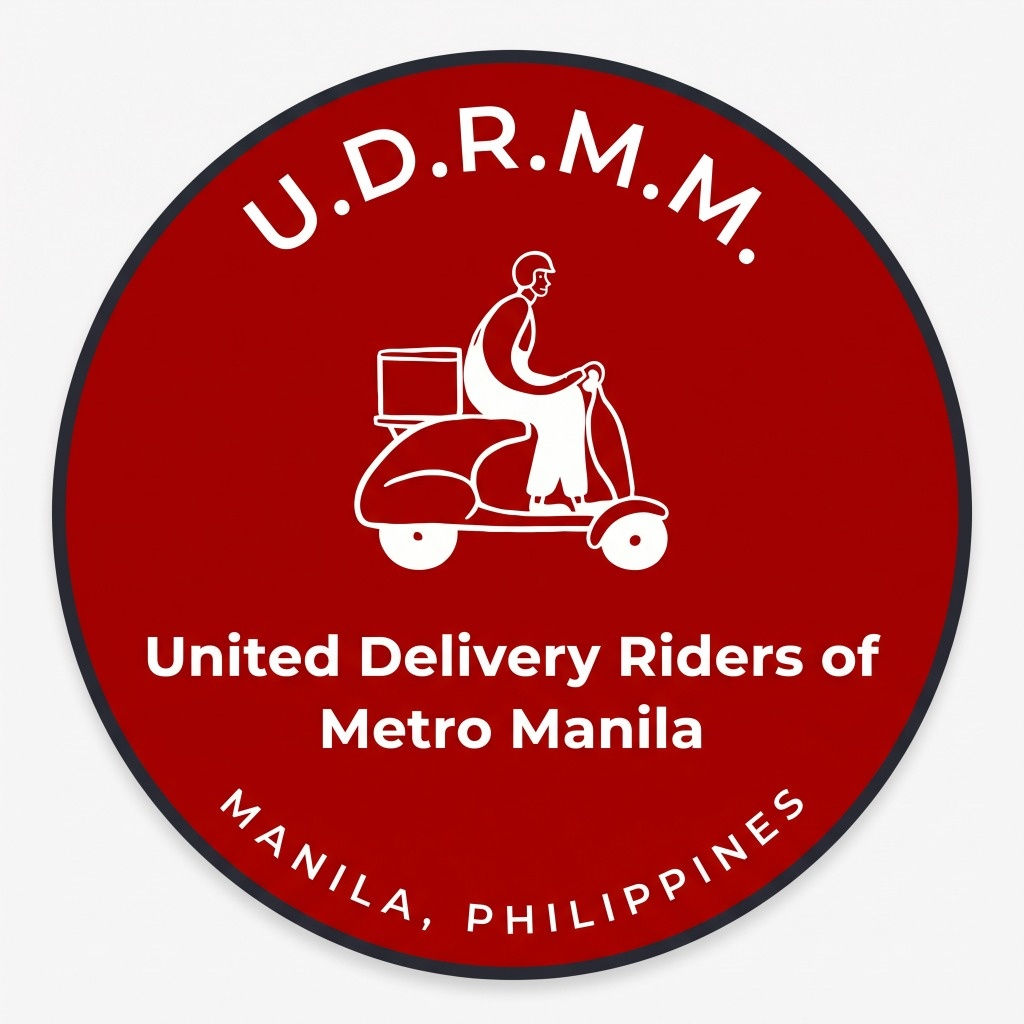
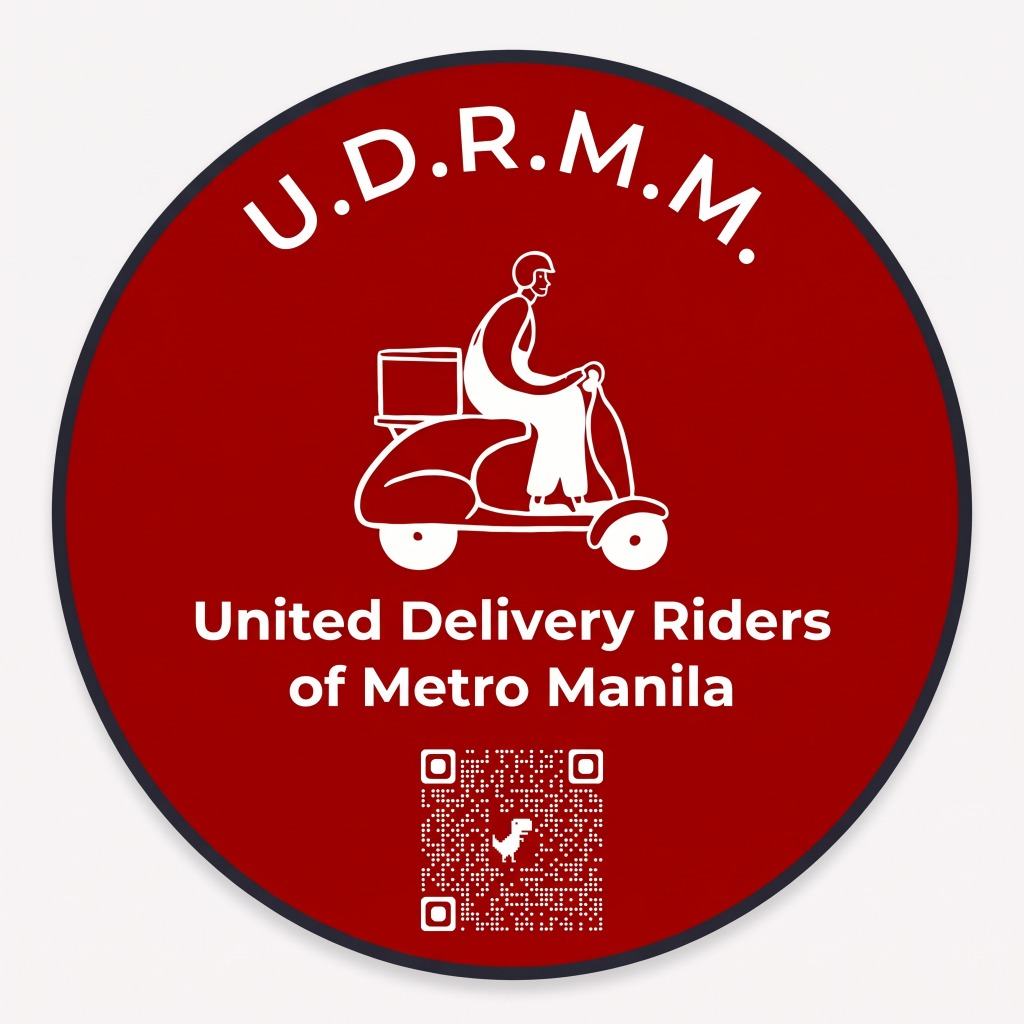
Update shop sticker images with official QR code versions

Changed region(s): [[0.125, 0.5625, 0.875, 0.9375]]

diff --git a/app.js b/app.js
@@ -1056,16 +1056,16 @@ function setupProductVariants() {
       // Auto-preview matching sticker image
       if (stickerImg && stickerSwitcher) {
         if (selectedStickerVariant.includes('Dual Pack')) {
-          stickerImg.src = 'assets/product-stickers.jpg?v=4';
+          stickerImg.src = 'assets/product-stickers.jpg?v=5';
           stickerSwitcher.querySelectorAll('.view-btn').forEach(b => b.classList.toggle('active', (b.getAttribute('data-img') || '').includes('product-stickers')));
         } else if (selectedStickerVariant.includes('Yellow')) {
-          stickerImg.src = 'assets/sticker-yellow-qr.jpg?v=4';
+          stickerImg.src = 'assets/sticker-yellow-qr.jpg?v=5';
           stickerSwitcher.querySelectorAll('.view-btn').forEach(b => b.classList.toggle('active', (b.getAttribute('data-img') || '').includes('sticker-yellow-qr')));
         } else if (selectedStickerVariant.includes('Red')) {
-          stickerImg.src = 'assets/sticker-red-qr.jpg?v=4';
+          stickerImg.src = 'assets/sticker-red-qr.jpg?v=5';
           stickerSwitcher.querySelectorAll('.view-btn').forEach(b => b.classList.toggle('active', (b.getAttribute('data-img') || '').includes('sticker-red-qr')));
         } else {
-          stickerImg.src = 'assets/product-stickers.jpg?v=4';
+          stickerImg.src = 'assets/product-stickers.jpg?v=5';
           stickerSwitcher.querySelectorAll('.view-btn').forEach(b => b.classList.toggle('active', (b.getAttribute('data-img') || '').includes('product-stickers')));
         }
       }
@@ -1127,12 +1127,12 @@ const productsCatalog = {
     titleEn: 'Official weatherproof vinyl sticker pack (Yellow & Red)',
     titleFil: 'Opisyal na Weatherproof Vinyl Sticker Pack (Dilaw at Pula)',
     price: 120,
-    img: 'assets/product-stickers.jpg?v=4',
+    img: 'assets/product-stickers.jpg?v=5',
     getImg: () => {
-      if (selectedStickerVariant.includes('Dual Pack')) return 'assets/product-stickers.jpg?v=4';
-      if (selectedStickerVariant.includes('Yellow')) return 'assets/sticker-yellow-qr.jpg?v=4';
-      if (selectedStickerVariant.includes('Red')) return 'assets/sticker-red-qr.jpg?v=4';
-      return 'assets/product-stickers.jpg?v=4';
+      if (selectedStickerVariant.includes('Dual Pack')) return 'assets/product-stickers.jpg?v=5';
+      if (selectedStickerVariant.includes('Yellow')) return 'assets/sticker-yellow-qr.jpg?v=5';
+      if (selectedStickerVariant.includes('Red')) return 'assets/sticker-red-qr.jpg?v=5';
+      return 'assets/product-stickers.jpg?v=5';
     },
     getVariant: () => selectedStickerVariant
   },

diff --git a/index.html b/index.html
@@ -616,12 +616,12 @@
           <!-- 2. Official Weatherproof Vinyl Sticker Pack -->
           <div class="product-card">
             <div class="product-thumb-wrap">
-              <img id="stickers-main-img" src="assets/product-stickers.jpg?v=4" alt="Official UDRMM Vinyl Sticker Pack" class="product-thumb" width="400" height="240" loading="lazy" decoding="async">
+              <img id="stickers-main-img" src="assets/product-stickers.jpg?v=5" alt="Official UDRMM Vinyl Sticker Pack" class="product-thumb" width="400" height="240" loading="lazy" decoding="async">
               <span class="product-tag">Weatherproof • Vinyl</span>
               <div class="product-view-switcher" data-target="stickers-main-img">
-                <button type="button" class="view-btn active" data-img="assets/product-stickers.jpg?v=4" title="Both Stickers">Both</button>
-                <button type="button" class="view-btn" data-img="assets/sticker-yellow-qr.jpg?v=4" title="Yellow Sticker">Yellow</button>
-                <button type="button" class="view-btn" data-img="assets/sticker-red-qr.jpg?v=4" title="Red Sticker">Red</button>
+                <button type="button" class="view-btn active" data-img="assets/product-stickers.jpg?v=5" title="Both Stickers">Both</button>
+                <button type="button" class="view-btn" data-img="assets/sticker-yellow-qr.jpg?v=5" title="Yellow Sticker">Yellow</button>
+                <button type="button" class="view-btn" data-img="assets/sticker-red-qr.jpg?v=5" title="Red Sticker">Red</button>
               </div>
             </div>
             <div class="product-body">

diff --git a/style.css b/style.css
@@ -1632,6 +1632,12 @@ html[data-lang="fil"] .nav-actions .header-cta-btn {
   transform: scale(1.05);
 }
 
+#stickers-main-img {
+  object-fit: contain !important;
+  background: #ffffff;
+  padding: 6px;
+}
+
 .product-tag {
   position: absolute;
   top: 12px;
